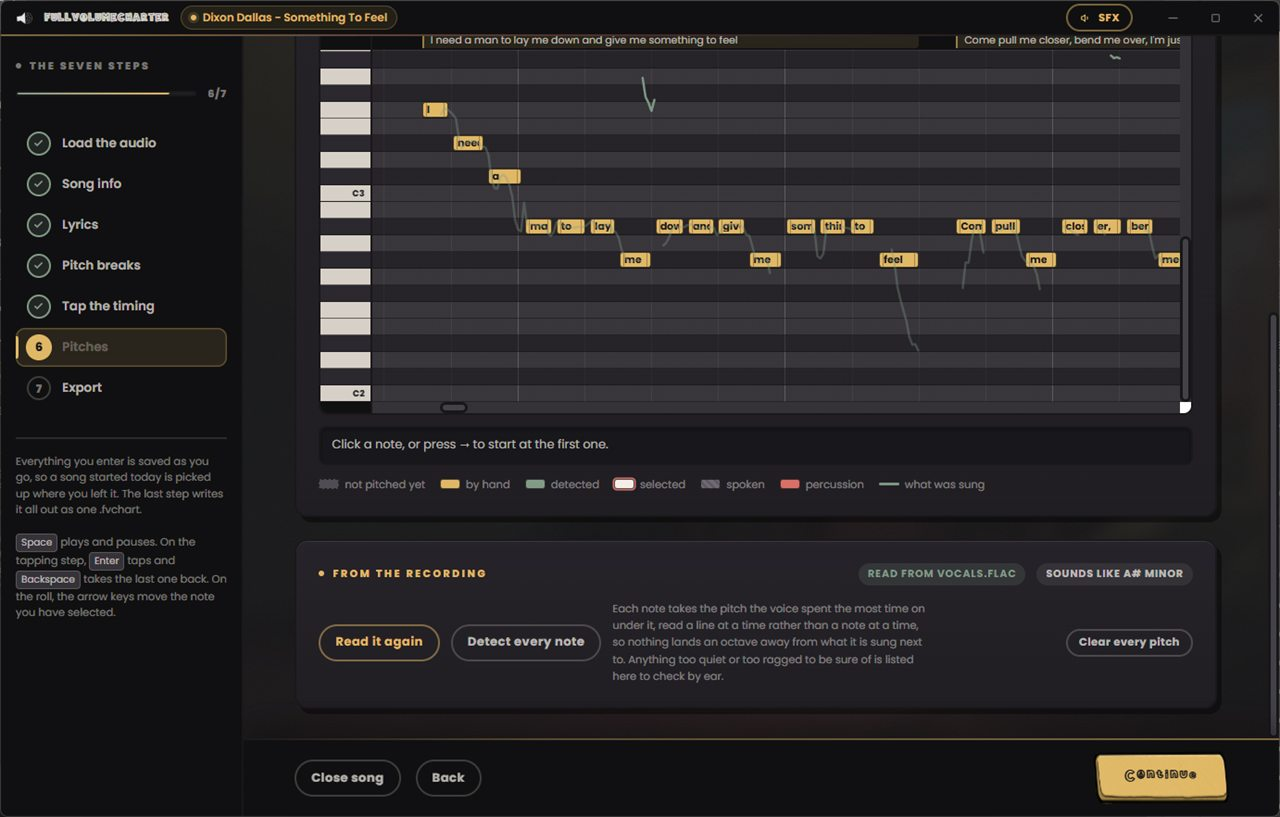
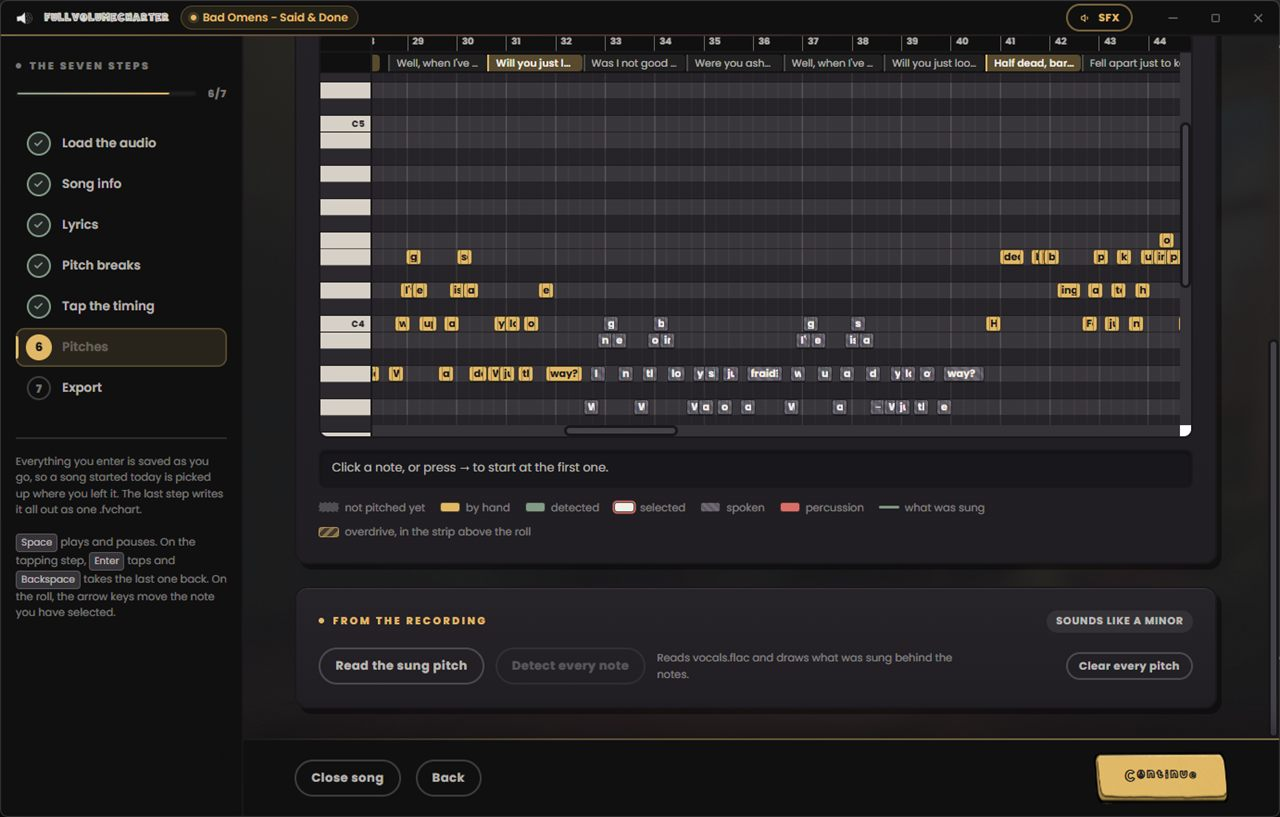
docs: update the site and README for 0.9.3
FullVolume 0.9.3 and FullVolumeCharter 0.9.3 are released, so the site and the
README say so rather than advertising 0.9.2 and a charter that is "not out yet".

- README: version and charter badges, install table (107 MB, 0.9.3 beta),
  UltraStar and .fvchart in what it reads, new bullets for the rebuilt scoring,
  overdrive and per-profile colors, and a what's-new line.
- README FullVolumeCharter section: no longer "coming with 0.9.3", gained a
  "few things worth knowing" block and the missing step 4 screenshot.
- Charter page: the "Not out yet" callout is gone (and its dead .ch-soon CSS),
  the download copy reads as released, schema availability is InStock, and
  step 6 now explains the overdrive strip, which the page never mentioned.
- New charter-11 and charter-12 screenshots, showing the overdrive strip.
- Every page's footer and structured data synced to 0.9.3.

tools/sync-version.py learns the charter page. It only ever knew about
docs/index.html, which is why that page sat at 0.1.0 while everything else
moved; five new rules cover its JSON-LD, hero flag, download lead and receipt,
and each fails loudly if the markup moves.

diff --git a/docs/fullvolumecharter/index.html b/docs/fullvolumecharter/index.html
@@ -20,7 +20,7 @@
 <meta property="og:image:type" content="image/jpeg">
 <meta property="og:image:width" content="1280">
 <meta property="og:image:height" content="817">
-<meta property="og:image:alt" content="The FullVolumeCharter pitch roll: the sung line read off the recording, with a note box per syllable laid over a piano keyboard.">
+<meta property="og:image:alt" content="FullVolumeCharter's overdrive strip above the pitch roll, with marked phrases in gold and hatched activation windows across it.">
 <meta name="twitter:card" content="summary_large_image">
 <meta name="twitter:title" content="FullVolumeCharter - chart the vocals for any song">
 <meta name="twitter:description" content="Audio in, .fvchart out. Seven steps from a song nobody can sing to one the game plays.">
@@ -45,7 +45,7 @@
       "applicationCategory": "MultimediaApplication",
       "applicationSubCategory": "Music charting",
       "operatingSystem": "Windows 10, Windows 11 (64-bit)",
-      "softwareVersion": "0.1.0",
+      "softwareVersion": "0.9.3",
       "downloadUrl": "https://github.com/iamjrmh/fullVolumeTheGame/releases/latest/download/FullVolumeCharterSetup.exe",
       "inLanguage": "en",
       "isAccessibleForFree": true,
@@ -58,6 +58,7 @@
         "Tap the timing with the song slowed to 50, 65 or 80 per cent without dropping its key",
         "Reads the sung pitch off the recording a phrase at a time, then lets you drag any note",
         "A guide tone, so you hear the note you are setting",
+        "Marks overdrive phrases and the moments they can be let out, on a strip above the roll",
         "Exports one .fvchart carrying the audio, the album art, the backdrop and the notes",
         "Opens a .fvchart it wrote earlier and edits it in place",
         "Saves as you go, and picks up where you left off"
@@ -66,7 +67,7 @@
         "@type": "Offer",
         "price": "0",
         "priceCurrency": "USD",
-        "availability": "https://schema.org/PreOrder",
+        "availability": "https://schema.org/InStock",
         "url": "https://fullvolumethegame.xyz/fullvolumecharter/#get"
       },
       "author": { "@id": "https://fullvolumethegame.xyz/#jurmr" },
@@ -190,7 +191,7 @@
       <div data-reveal>
         <p class="ch-flag">
           <span class="dot" aria-hidden="true"></span>
-          Arriving with FullVolume 0.9.3 &middot; <b>v0.1.0</b>
+          Shipping with FullVolume 0.9.3 &middot; <b>v0.9.3</b>
         </p>
 
         <h1>Chart the vocals<br>for <em>any song</em>,<br>start to finish.</h1>
@@ -444,10 +445,17 @@
             song. Anything too quiet or too ragged to be sure of is listed for you to check
             by ear rather than quietly guessed at.
           </p>
+          <p>
+            A strip above the roll is where overdrive is charted: mark the phrases that
+            fill the singer's meter, then pick the moments in the rests where they are
+            allowed to let it out. It sits above the roll rather than inside it because
+            overdrive is charted at the scale of a song, and a mark made in a roll zoomed
+            to a bar or two is blind to the run it belongs to.
+          </p>
         </div>
         <figure>
-          <img src="../assets/img/shots/charter/charter-11.jpg" loading="lazy"
-               alt="Step six of FullVolumeCharter: the piano roll, with a note box per syllable laid out against a keyboard down the left, the sung pitch line drawn behind them, and snap, zoom and guide tone controls."
+          <img src="../assets/img/shots/charter/charter-12.jpg" loading="lazy"
+               alt="Step six of FullVolumeCharter: the piano roll, with a note box per syllable laid out against a keyboard down the left, a colour key beneath it, and the read from the recording panel."
                width="1280" height="817">
           <figcaption>The sung line, read off the recording</figcaption>
         </figure>
@@ -597,12 +605,12 @@
           <p class="slide__cap">Step 5: jump back to any syllable</p>
         </li>
         <li class="slide">
-          <img src="../assets/img/shots/charter/charter-11.jpg" alt="Step six: the piano roll, a note box per syllable against a keyboard, with snap, zoom and guide tone controls." loading="lazy" width="1280" height="817">
-          <p class="slide__cap">Step 6: the roll, with the lyric above it</p>
+          <img src="../assets/img/shots/charter/charter-11.jpg" alt="Step six: the overdrive strip above the piano roll, marked phrases in gold and hatched activation windows across it." loading="lazy" width="1280" height="817">
+          <p class="slide__cap">Step 6: overdrive, marked above the roll</p>
         </li>
         <li class="slide">
-          <img src="../assets/img/shots/charter/charter-12.jpg" alt="Step six: the detected pitch line drawn behind the notes, with a legend and the read from the recording panel." loading="lazy" width="1280" height="817">
-          <p class="slide__cap">Step 6: what was sung, drawn behind the notes</p>
+          <img src="../assets/img/shots/charter/charter-12.jpg" alt="Step six: the piano roll filled with a note box per syllable, with a colour key and the read from the recording panel." loading="lazy" width="1280" height="817">
+          <p class="slide__cap">Step 6: a note box per syllable, read off the recording</p>
         </li>
         <li class="slide">
           <img src="../assets/img/shots/charter/charter-13.jpg" alt="Step seven: the export summary listing the song details beside the stems, cover, background and chart about to be packed." loading="lazy" width="1280" height="817">
@@ -730,7 +738,7 @@
         <p class="eyebrow">Download</p>
         <h2 class="h2">Chart the one<br>nobody has.</h2>
         <p class="lead">
-          One installer, per user, no admin rights, same as the game. It lands with
+          One installer, per user, no admin rights, same as the game. Out now, alongside
           FullVolume 0.9.3.
         </p>
 
@@ -742,22 +750,10 @@
           </a>
         </div>
 
-        <div class="ch-soon">
-          <svg viewBox="0 0 24 24" width="20" height="20" aria-hidden="true">
-            <circle cx="12" cy="12" r="9" fill="none" stroke="currentColor" stroke-width="2"/>
-            <path d="M12 7.5V12l3 2" fill="none" stroke="currentColor" stroke-width="2" stroke-linecap="round" stroke-linejoin="round"/>
-          </svg>
-          <p>
-            <b>Not out yet.</b> FullVolumeCharter ships alongside FullVolume 0.9.3. When it
-            does, this button is the download and the link will not change, so it is worth a
-            bookmark. Everything on this page is the tool as it stands today.
-          </p>
-        </div>
-
-        <a class="dl__alt" href="https://github.com/iamjrmh/FullVolumeTheGame/releases" target="_blank" rel="noopener">
+        <a class="dl__alt" href="https://github.com/iamjrmh/FullVolumeTheGame/releases/latest" target="_blank" rel="noopener">
           <span class="dl__alt-body">
-            <span class="dl__alt-label">Want to know the moment it lands?</span>
-            <span class="dl__alt-name">Watch the releases page</span>
+            <span class="dl__alt-label">What changed in this one?</span>
+            <span class="dl__alt-name">Read the release notes</span>
           </span>
           <svg class="dl__alt-arrow" viewBox="0 0 24 24" width="18" height="18" aria-hidden="true">
             <path d="M4 12h15M13 6l6 6-6 6" fill="none" stroke="currentColor"
@@ -769,12 +765,12 @@
       <aside class="receipt">
         <div class="receipt__head">
           <img src="../assets/img/app-icon.png" alt="" width="512" height="512">
-          <h3>What you will be downloading</h3>
+          <h3>What you are downloading</h3>
         </div>
         <dl>
           <div><dt>File</dt><dd>FullVolumeCharterSetup.exe</dd></div>
-          <div><dt>Version</dt><dd>0.1.0</dd></div>
-          <div><dt>Lands with</dt><dd>FullVolume 0.9.3</dd></div>
+          <div><dt>Version</dt><dd>0.9.3</dd></div>
+          <div><dt>Ships with</dt><dd>FullVolume 0.9.3</dd></div>
           <div><dt>Runs on</dt><dd>Windows 10 and 11, 64&#8209;bit</dd></div>
           <div><dt>Account</dt><dd>None</dd></div>
           <div><dt>Writes</dt><dd>.fvchart</dd></div>

diff --git a/docs/css/style.css b/docs/css/style.css
@@ -2755,21 +2755,6 @@ body::after {
 }
 .section--charter .receipt h3 { color: var(--sage); }
 
-/* Not out yet, and the page must not pretend otherwise. */
-.ch-soon {
-  display: flex;
-  align-items: flex-start;
-  gap: var(--s4);
-  margin-top: var(--s5);
-  padding: var(--s4) var(--s5);
-  border-radius: var(--radius);
-  background: rgba(0,0,0,.3);
-  box-shadow: inset 0 0 0 1px rgba(243,238,231,.09), inset 0 2px 14px rgba(0,0,0,.45);
-}
-.ch-soon svg { flex: none; color: var(--gold); margin-top: 2px; }
-.ch-soon p { margin: 0; font-size: 14px; line-height: 1.55; color: var(--cream-dim); }
-.ch-soon b { color: var(--cream); }
-
 @media (max-width: 900px) {
   .ch-hero__grid { grid-template-columns: minmax(0, 1fr); }
   .ch-step { grid-template-columns: minmax(0, 1fr); }

diff --git a/tools/sync-version.py b/tools/sync-version.py
@@ -42,6 +42,7 @@ from pathlib import Path
 ROOT = Path(__file__).resolve().parent.parent
 README = ROOT / "README.md"
 INDEX = ROOT / "docs" / "index.html"
+CHARTER = ROOT / "docs" / "fullvolumecharter" / "index.html"
 SITEMAP = ROOT / "docs" / "sitemap.xml"
 DOCS = ROOT / "docs"
 DATA = ROOT / "docs" / "data"
@@ -165,6 +166,29 @@ def build_rules(version: str, channel: str, size: str | None, charts: int | None
          r"(<p>v)\d+\.\d+\.\d+( &middot; )\w+(</p>)",
          rf"\g<1>{version}\g<2>{channel or 'beta'}\g<3>", 1),
 
+        # FullVolumeCharter carries the game's own number, by the user's rule, so
+        # the charter page is driven from the same source rather than by hand. It
+        # quotes the bare version with no channel - the charter is not "beta"
+        # separately from the game it ships inside.
+        (CHARTER, "charter JSON-LD softwareVersion",
+         r'("softwareVersion":\s*")\d+\.\d+\.\d+(")',
+         rf"\g<1>{version}\g<2>", 1),
+
+        (CHARTER, "charter hero flag",
+         r"(Shipping with FullVolume )\d+\.\d+\.\d+( &middot; <b>v)\d+\.\d+\.\d+(</b>)",
+         rf"\g<1>{version}\g<2>{version}\g<3>", 1),
+
+        (CHARTER, "charter download lead",
+         r"(Out now, alongside\s+FullVolume )\d+\.\d+\.\d+",
+         rf"\g<1>{version}", 1),
+
+        (CHARTER, "charter receipt version",
+         r"(<dt>Version</dt><dd>)\d+\.\d+\.\d+(</dd>)",
+         rf"\g<1>{version}\g<2>", 1),
+
+        (CHARTER, "charter receipt ships with",
+         r"(<dt>Ships with</dt><dd>FullVolume )\d+\.\d+\.\d+(</dd>)",
+         rf"\g<1>{version}\g<2>", 1),
     ]
 
     # Every other page carries the same footer, and there are more of them every

diff --git a/README.md b/README.md
@@ -235,7 +235,7 @@ It is a real desktop app, not a web page in a wrapper: no account, no upload, no
 
 <p align="center">
   <a href="https://fullvolumethegame.xyz/fullvolumecharter/">
-  <img src="./docs/assets/img/shots/charter/charter-11.jpg" alt="Step six of FullVolumeCharter: the pitch roll against a piano keyboard, the song's waveform above it, and the overdrive strip between the two reading 12 overdrive and 3 activation moments" width="820">
+  <img src="./docs/assets/img/shots/charter/charter-11.jpg" alt="Step six of FullVolumeCharter: the overdrive strip above the pitch roll, marked phrases in gold and hatched activation windows across it, reading 12 overdrive and 3 activation moments" width="820">
   </a>
 </p>
 
@@ -300,8 +300,8 @@ Everything you enter is saved the moment you enter it, so a song started tonight
   <img src="./docs/assets/img/shots/charter/charter-10.jpg" alt="Step five: the whole song listed with a timestamp on every line">
   <em>Step 5. Jump back to any syllable.</em>
   <br><br>
-  <img src="./docs/assets/img/shots/charter/charter-12.jpg" alt="Step six: the detected pitch line drawn behind the notes, with the read from the recording panel">
-  <em>Step 6. What was sung, drawn behind the notes.</em>
+  <img src="./docs/assets/img/shots/charter/charter-12.jpg" alt="Step six: the pitch roll filled with a note box per syllable against a piano keyboard, over the color key and the read from the recording panel">
+  <em>Step 6. A note box per syllable, and the panel that reads them off the recording.</em>
   <br><br>
   <img src="./docs/assets/img/shots/charter/charter-13.jpg" alt="Step seven: the export summary, listing the song details beside the stems, cover, background and chart about to be packed">
   <em>Step 7. Everything that is going in.</em>
